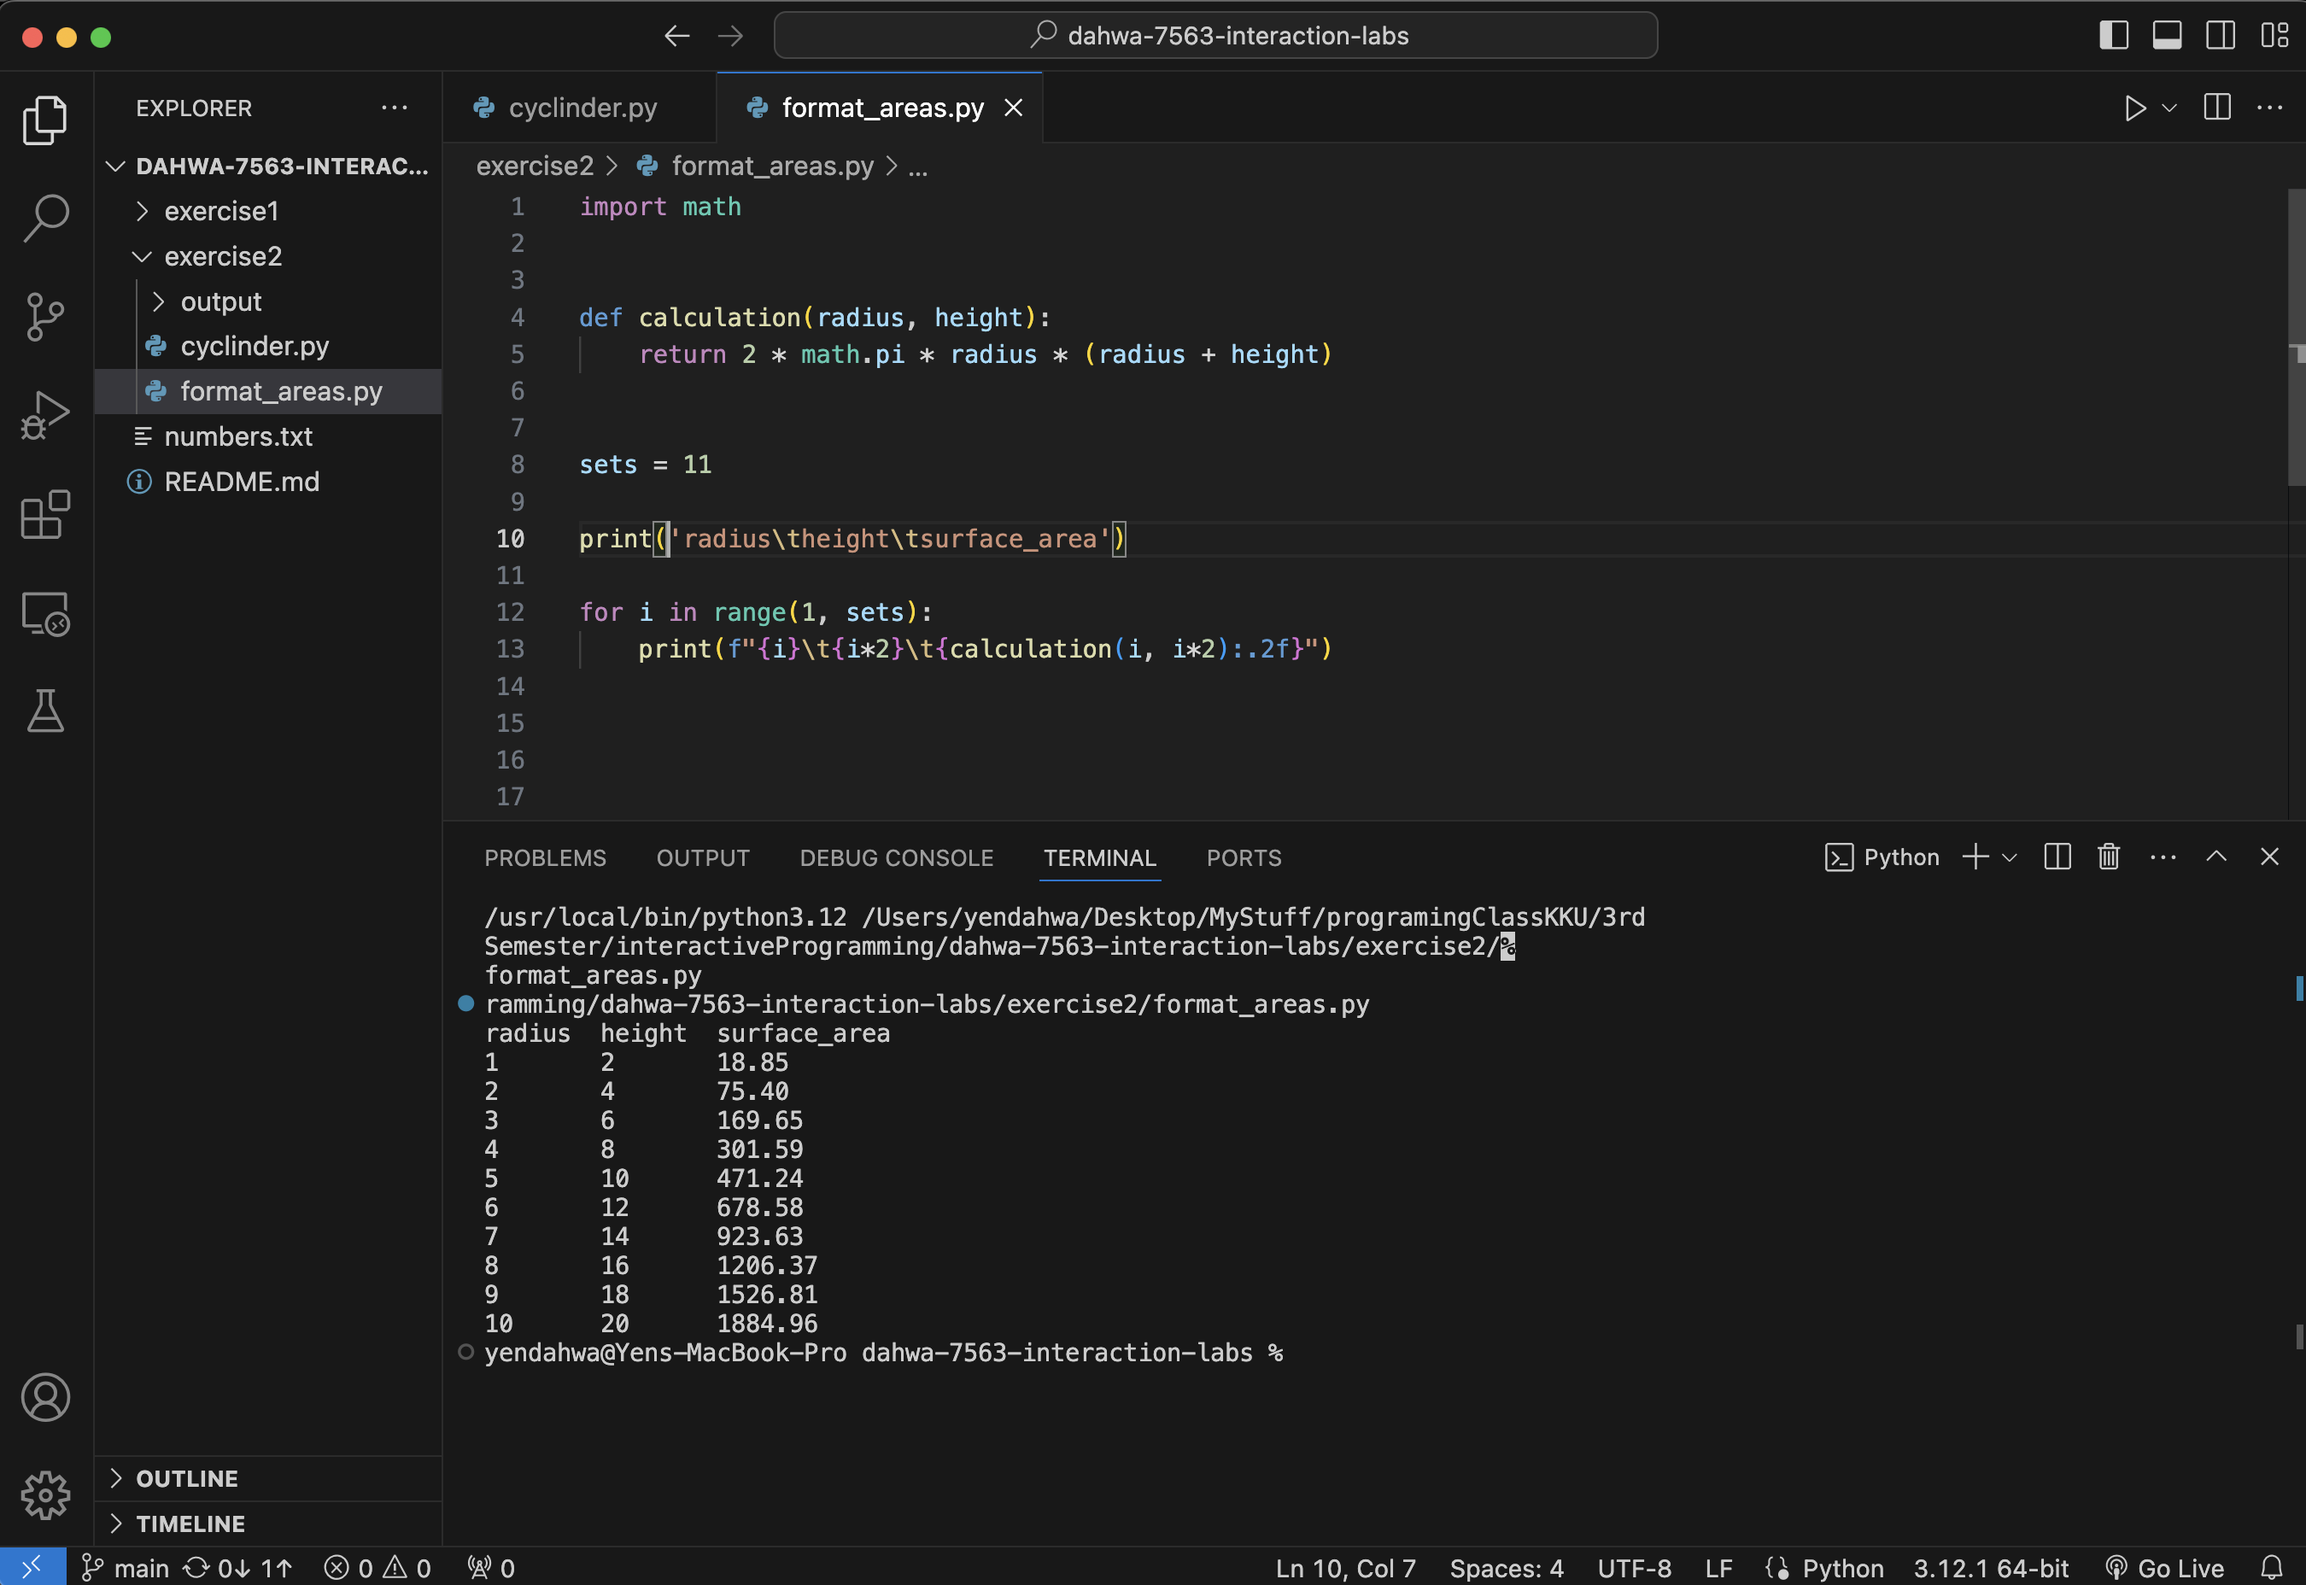
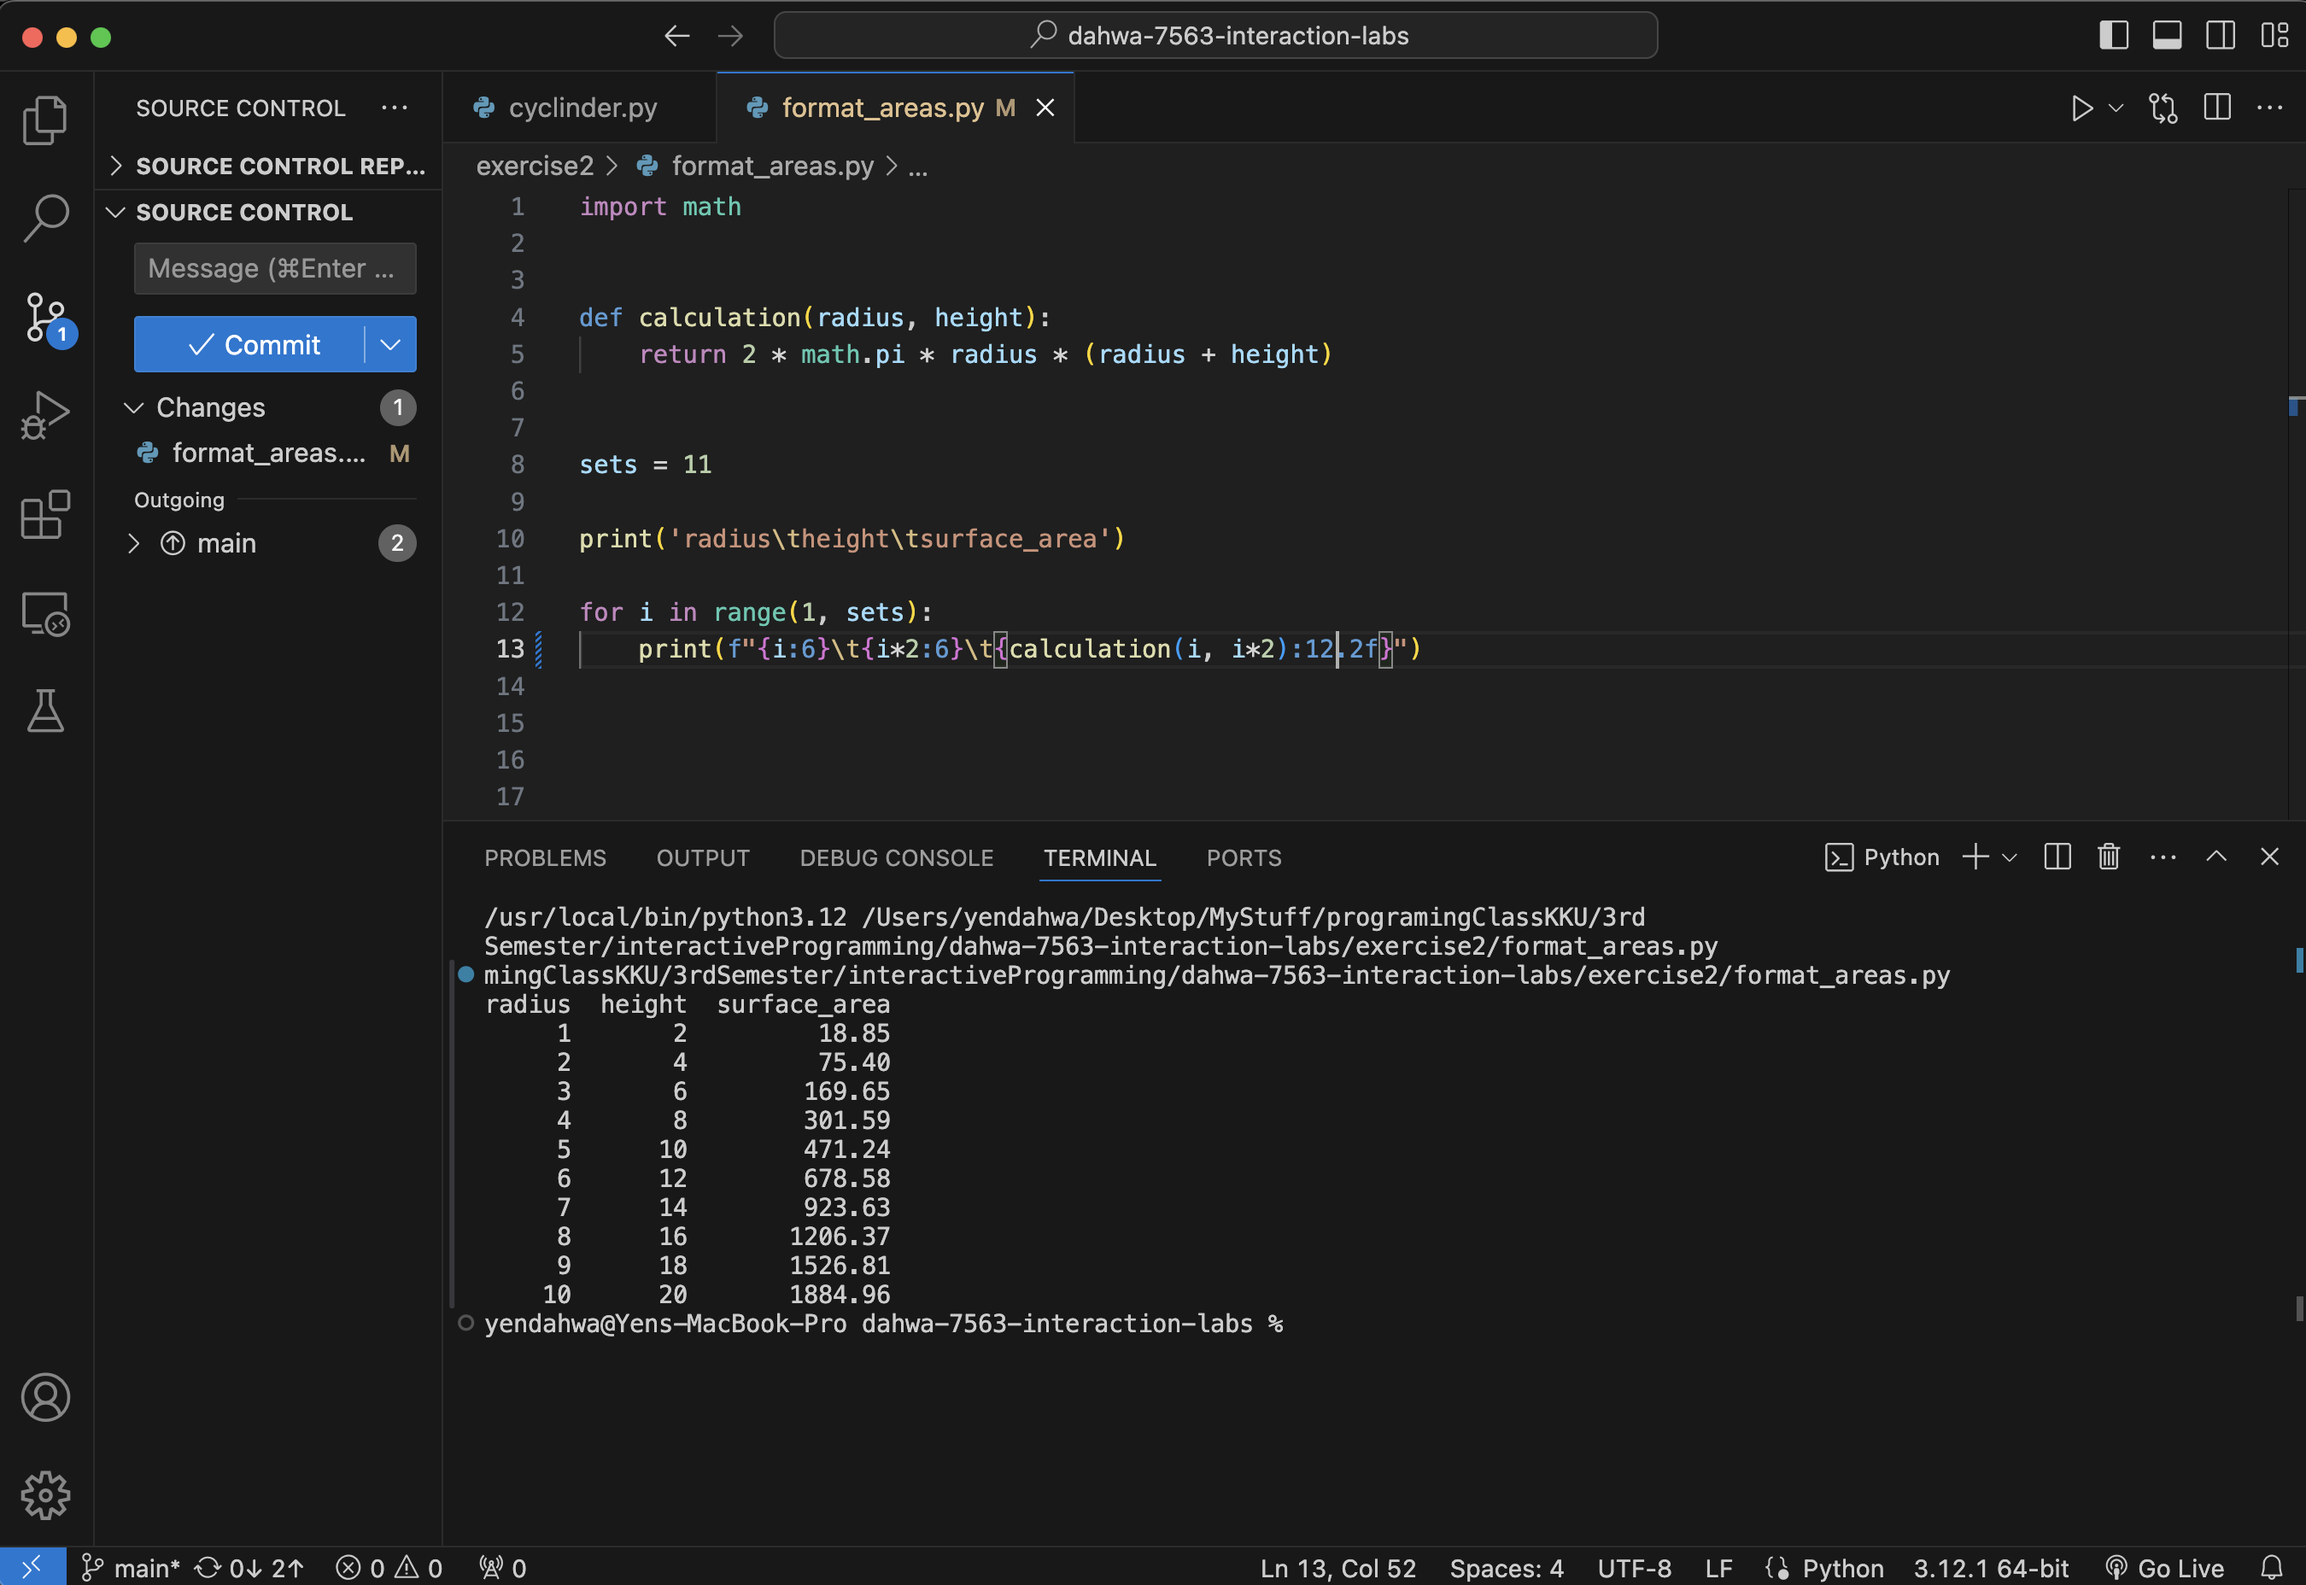
add code

diff --git a/exercise2/format_areas.py b/exercise2/format_areas.py
@@ -10,7 +10,7 @@ sets = 11
 print('radius\theight\tsurface_area')
 
 for i in range(1, sets):
-    print(f"{i}\t{i*2}\t{calculation(i, i*2):.2f}")
+    print(f"{i:6}\t{i*2:6}\t{calculation(i, i*2):12.2f}")
 
 
 
